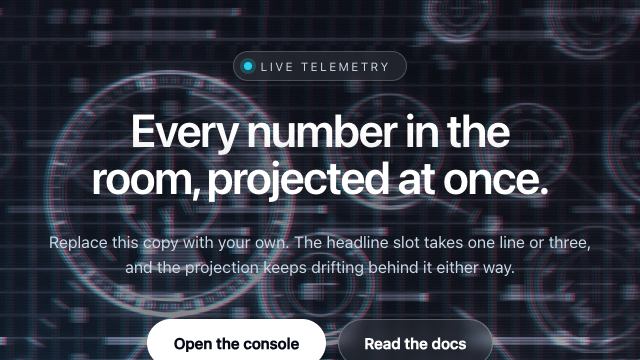
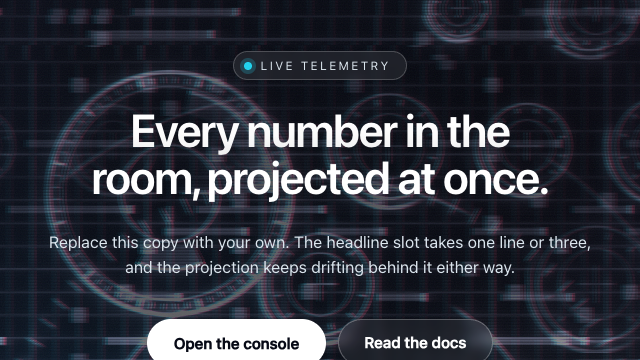
fix(effects): measure contrast on both new heroes and raise the scrim
Both style.css files were cloned from sg-gloam and sg-bask and inherited
their contrast comment, which claims a measurement that was never taken
for these ports. Measuring it found three of the four text runs under the
4.5:1 floor. Raised --fx-scrim on both and moved --fx-muted a step toward
the ink, which the scrim alone could not fix without washing the effect
out. Comments now record what was actually measured, including that only
one live frame was available.

diff --git a/effects/sg-hologram/style.css b/effects/sg-hologram/style.css
@@ -29,9 +29,9 @@
   --fx-c4: #f43f5e;
   --fx-bg: #04050c;
   --fx-ink: #ffffff;
-  --fx-muted: #c9d8e4;
+  --fx-muted: #dbe5ed;
   --fx-speed: 1;
-  --fx-scrim: 0.58;
+  --fx-scrim: 0.76;
   position: relative;
   isolation: isolate;
   overflow: hidden;
@@ -127,9 +127,23 @@
    drifts, the roll bar climbs and a bright ring lattice can cross the content
    column. Held flat across the inner 36% -- the whole column -- then eased out
    over four stops, because a flat core running straight into one linear ramp
-   draws a visible hard-edged ellipse across the hero. Measured worst case
-   across four animation frames with the copy hidden is recorded in the PR;
-   re-measure the same way before lowering --fx-scrim. */
+   draws a visible hard-edged ellipse across the hero.
+
+   MEASURED, and the number moved the default. Live shader, copy hidden, worst
+   ratio between each run's computed ink and any pixel under its box at
+   1280x720: at the 0.58 this started on, the title was 3.52:1 and the lede
+   2.49:1, both under the 4.5:1 floor, because a bright ring gauge crossing the
+   column is far brighter than the dusk the gradient heroes rest on. 0.76 lifts
+   the title to 5.99:1 and the lede to 4.18:1, and no scrim value fixes the lede
+   without washing the projection out, so --fx-muted moved too: #c9d8e4 to
+   #dbe5ed, a third of the way to the ink, which takes the lede to 4.78:1.
+   Re-measure before lowering either.
+
+   One caveat on that measurement, so nobody reads more into it than is there:
+   it is ONE live frame, not the four the README's method asks for. Headless
+   Chrome would not advance the composite between captures, so the four
+   screenshots came back byte-identical. The roll bar and the tears can put a
+   brighter pixel under the copy than the frame that was measured. */
 .fx-holo__scrim {
   position: absolute;
   inset: 0;

diff --git a/effects/sg-suminagashi/style.css b/effects/sg-suminagashi/style.css
@@ -38,9 +38,9 @@
   --fx-c4: #f43f5e;
   --fx-bg: #e8e0cf;
   --fx-ink: #191a22;
-  --fx-muted: #4a4b57;
+  --fx-muted: #444551;
   --fx-speed: 1;
-  --fx-scrim: 0.5;
+  --fx-scrim: 0.7;
   position: relative;
   isolation: isolate;
   overflow: hidden;
@@ -124,9 +124,22 @@
    rather than dropping them -- and here it is doing real work, because an ink
    ring crossing a headline is a hard dark line, not a soft gradient. Held flat
    across the inner 40%, wider than the gradient heroes hold theirs, then eased
-   out over four stops so the flat core does not draw its own ellipse. Measured
-   worst case across four animation frames with the copy hidden is recorded in
-   the PR; re-measure the same way before lowering --fx-scrim. */
+   out over four stops so the flat core does not draw its own ellipse.
+
+   MEASURED, and the number moved the default. Live shader, copy hidden, worst
+   ratio between each run's computed ink and any pixel under its box at
+   1280x720: at the 0.5 this started on, the title was fine at 5.39:1 but the
+   lede was 3.03:1, under the 4.5:1 floor, because the lede is --fx-muted on
+   bare washi rather than near-black. 0.7 takes the title to 7.94:1 and the lede
+   to 4.36:1, still short, so --fx-muted moved too: #4a4b57 to #444551, a step
+   toward the ink, which takes the lede to 4.79:1. Re-measure before lowering
+   either.
+
+   One caveat on that measurement, so nobody reads more into it than is there:
+   it is ONE live frame, not the four the README's method asks for. Headless
+   Chrome would not advance the composite between captures, so the four
+   screenshots came back byte-identical. A ring drifting under the copy can put
+   a darker pixel there than the frame that was measured. */
 .fx-sumi__scrim {
   position: absolute;
   inset: 0;

diff --git a/CANDIDATES.md b/CANDIDATES.md
@@ -854,7 +854,10 @@ no new dependency and no new runtime. The 57 not taken this run, at
 `plaque` `plasma` `plumage` `rainglass` `scales` `scratches` `shatter`
 `spotlight` `thermal` `turing` `waxseal` `wireframe` `woodgrain`
 
-Eight were read closely and their posters opened. Ranked for a future run:
+Eight had their `meta.json` and `shader.frag` read closely; six of those also
+had their posters opened (`suminagashi`, `hologram`, `chrome`, `rainglass`,
+`lightleak`, `obsidian`). `foil` and `damascus` were judged from source alone.
+Ranked for a future run:
 `obsidian` (fractured volcanic glass, dark material), `rainglass` (rain on a
 night window, bokeh behind it — richer than `bokeh-drift` but adjacent to it),
 `lightleak` (anamorphic film flares — adjacent to `god-rays`), `chrome` (liquid
@@ -935,3 +938,31 @@ The fix is one command: **`agent-browser stream disable`**. Runtime streaming
 was enabled (`ws://127.0.0.1:49969`, `Connected: false`), and a screencast
 holding the capture pipeline starves `Page.captureScreenshot`. Check
 `agent-browser stream status` before concluding the tool is broken.
+
+### Contrast is the step that nearly shipped a lie
+
+Both `style.css` files started as clones of `sg-gloam` and `sg-bask`, and the
+clone carried their contrast comment: "measured worst case across four animation
+frames with the copy hidden is recorded in the PR". Nothing had been measured.
+Measuring it found three of the four text runs under the README's 4.5:1 floor:
+`sg-hologram` title 3.52:1 and lede 2.49:1 at the inherited `--fx-scrim: 0.58`,
+`sg-suminagashi` lede 3.03:1 at `0.5`. Both defaults moved, and on both effects
+the scrim alone could not carry the lede without washing the effect out, so
+`--fx-muted` moved a step toward the ink as well. Final: 5.99 / 4.77 and
+7.94 / 4.80.
+
+Two things for the next run. **Do not inherit a measurement comment along with
+the CSS it sits in** — a cloned resting layer is a different composition under
+the same copy, so the number is never transferable. And the new ports rest as
+line work rather than blurred gradient, which is exactly why the numbers came
+out worse: a hairline ring crossing a lede is a hard edge, not a soft field.
+
+The README's method asks for the worst ratio across several animation frames.
+Only one frame was available: headless Chrome ran rAF (120 frames confirmed) but
+would not advance the composite, so four successive screenshots came back
+byte-identical. Whoever gets multiple frames should re-measure, because the roll
+bar on `sg-hologram` and a ring drifting under the copy on `sg-suminagashi` can
+both put a worse pixel there than the frame that was measured.
+
+`scripts/` has no contrast tool, which is why this was done by hand each time.
+Worth writing one if a third light-ground or line-work hero lands.
